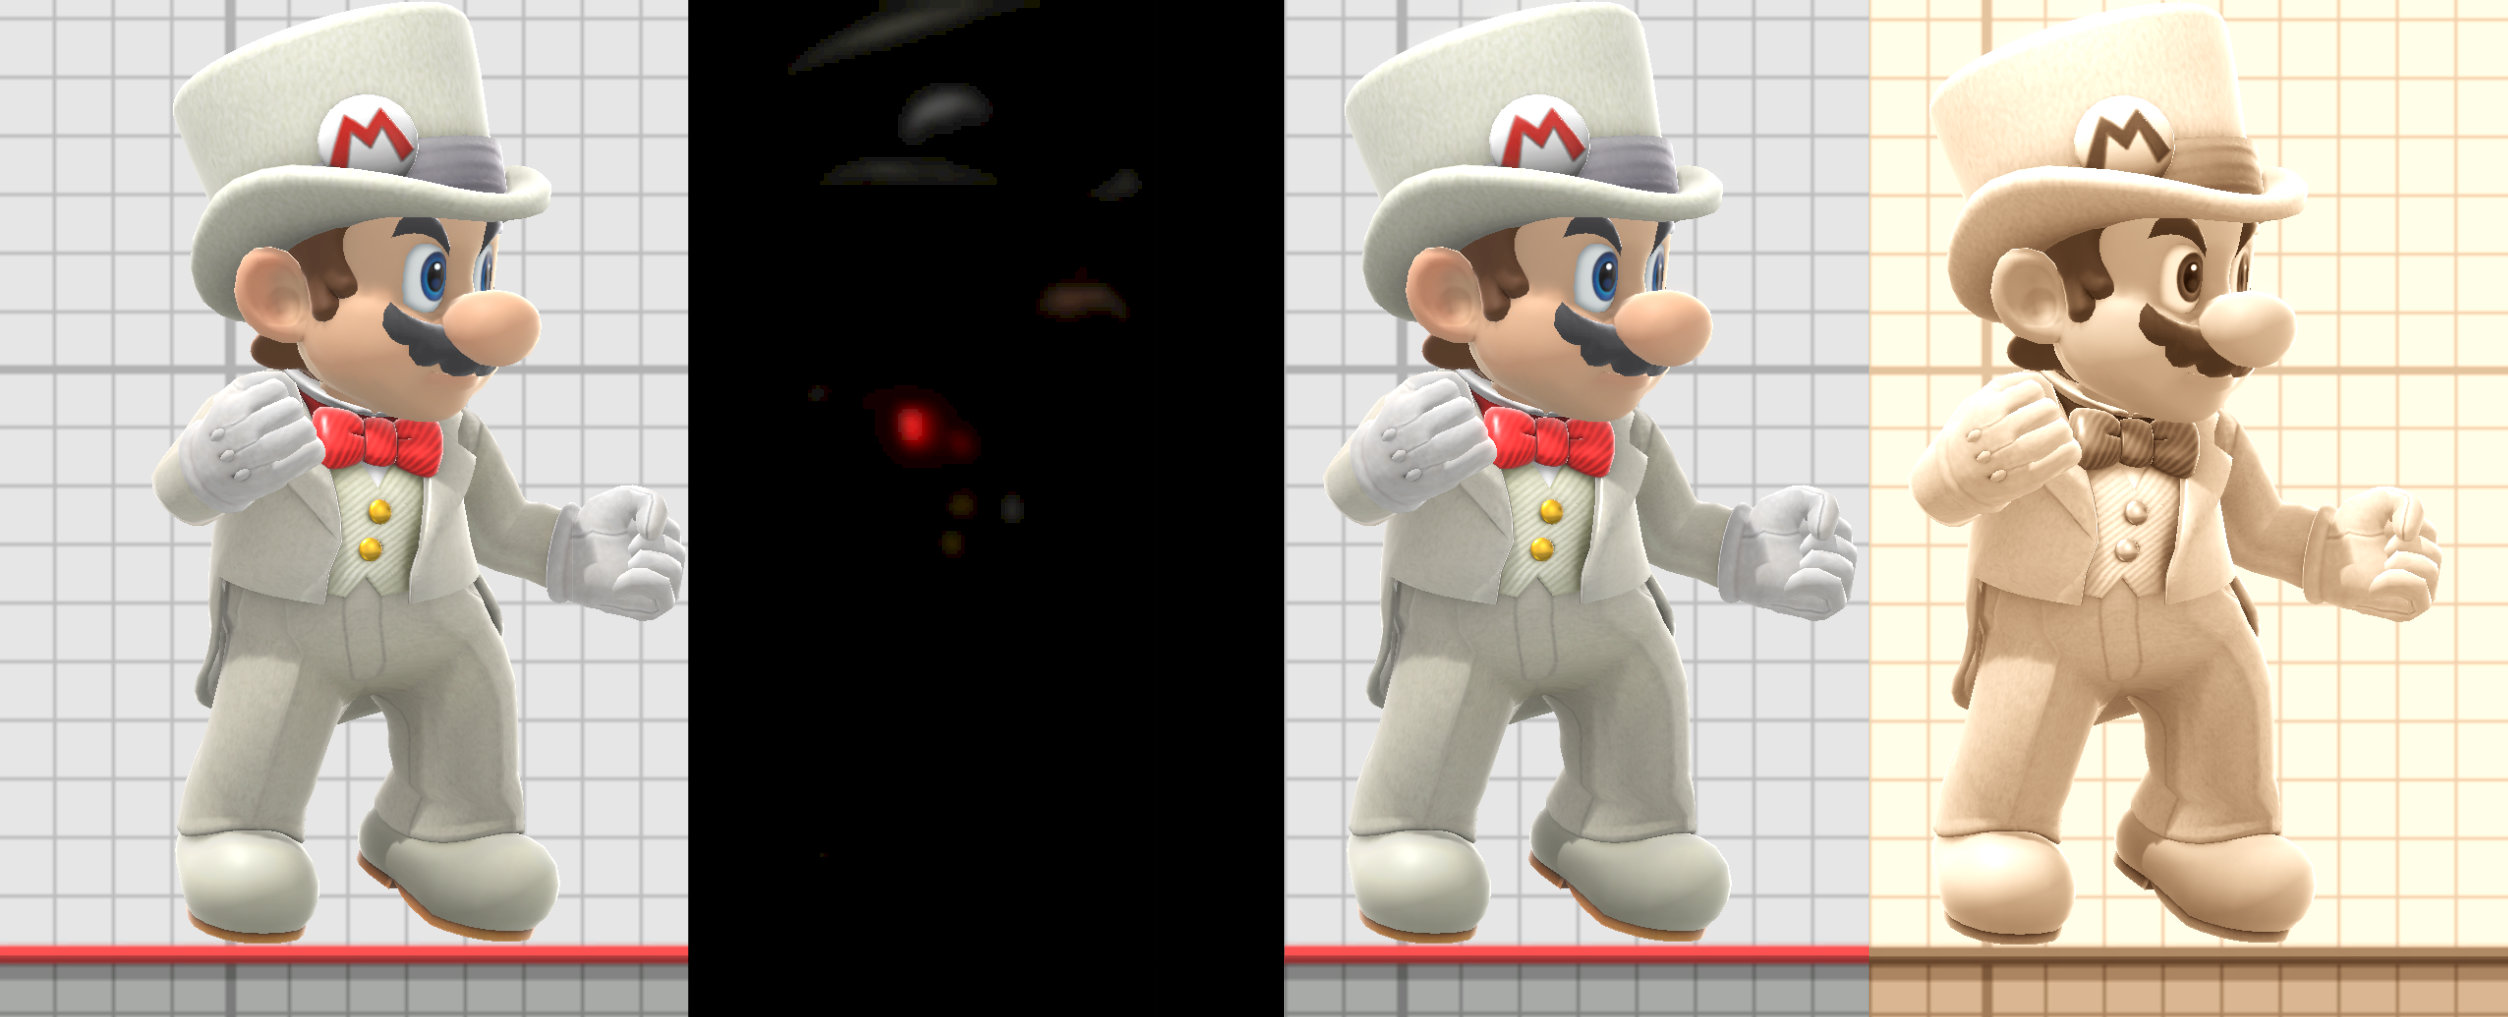
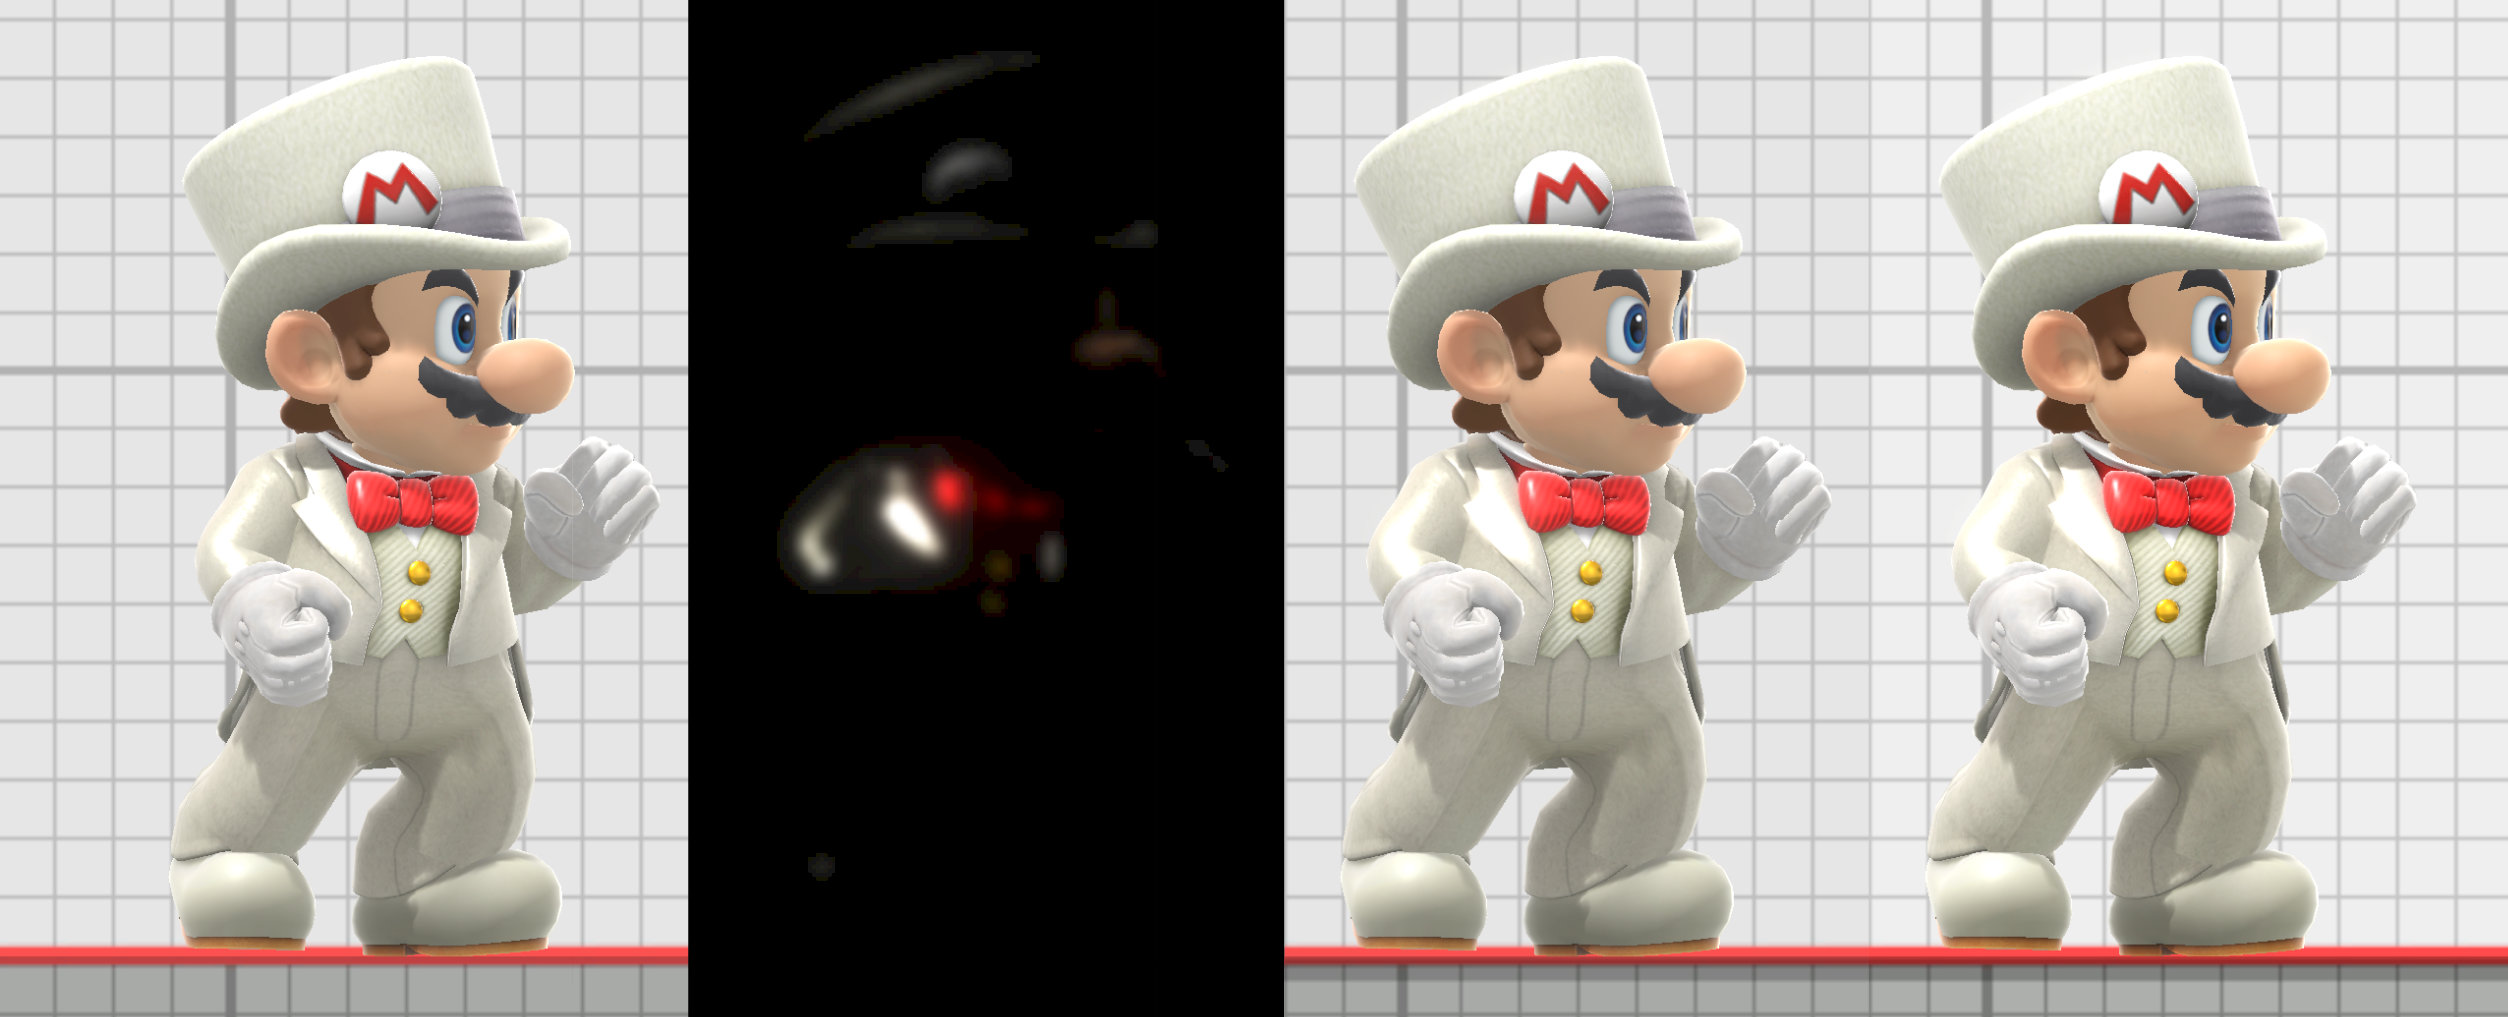
update post processing bloom picture

diff --git a/docs/content/post_processing/postprocessing/index.md b/docs/content/post_processing/postprocessing/index.md
@@ -11,7 +11,7 @@ weight = 0
 </style>
 <figure class="figure">
     <img src="post_processing.jpg" height="auto" width="auto">
-    <figcaption class="figure-caption text-center">From left to right: the base image, the bloom contribution, the image after adding bloom, and the final image after applying the color grading LUT (sepia).</figcaption>
+    <figcaption class="figure-caption text-center">From left to right: the base image, the bloom contribution, the image after adding bloom, and the final image after applying the color grading LUT.</figcaption>
 </figure>
 Smash Ultimate contains several post processing steps that grealy impact the final look of the image after all the models and effects are rendered. Post processing does not affect the color of UI elements such as stock icons and character portraits.
 
